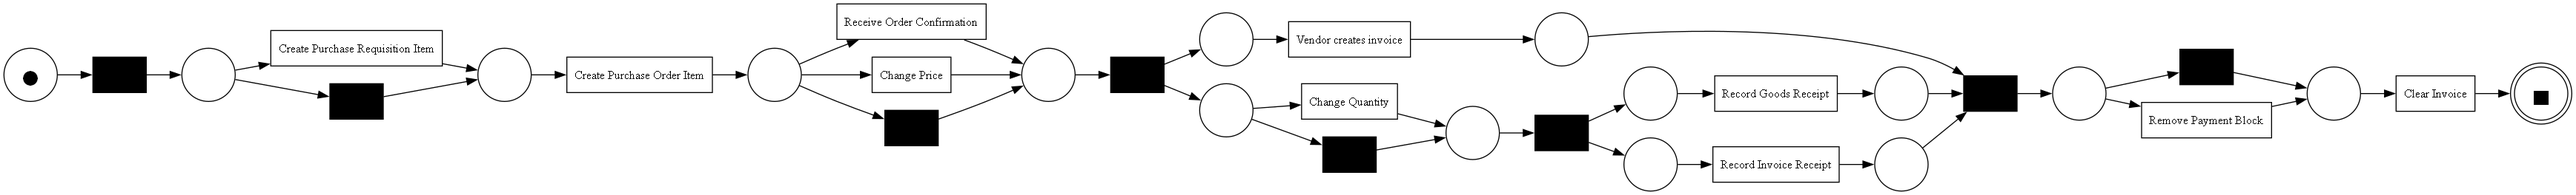
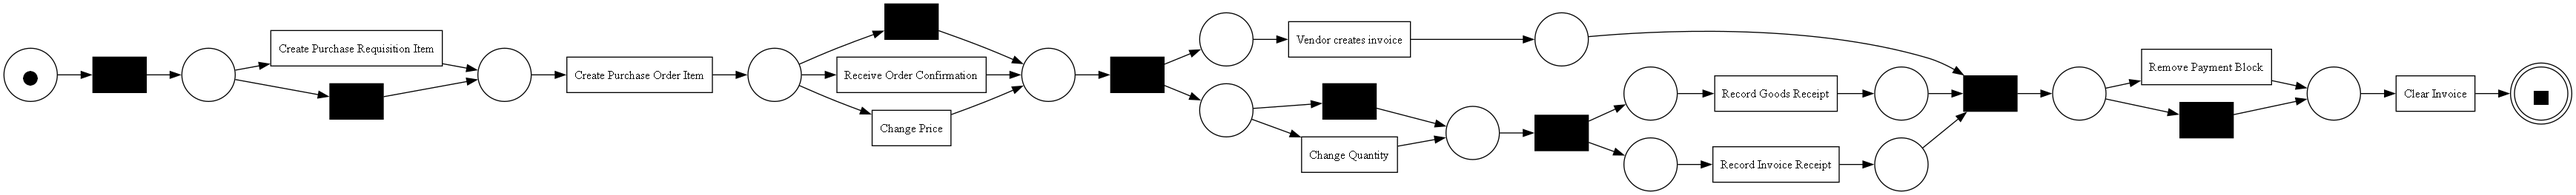
Modified README file

diff --git a/README.md b/README.md
@@ -32,7 +32,7 @@ pip install pandas pm4py
     ```
     - The last argument (TRUE or FALSE) specifies whether to skip silent transitions during matrix processing.
 2. **Matrix Manipulation:**
-    - Use create_alpha_relations_matrix.py to generate and process the activity relations matrix..
+    - Use create_alpha_relations_matrix.py to generate and process the activity relations matrix.
     - Silent transitions are handled and resolved to propagate relations to actual activities before removal.
 
 3. **Relaxation Operations for BPIC19 Model:**
